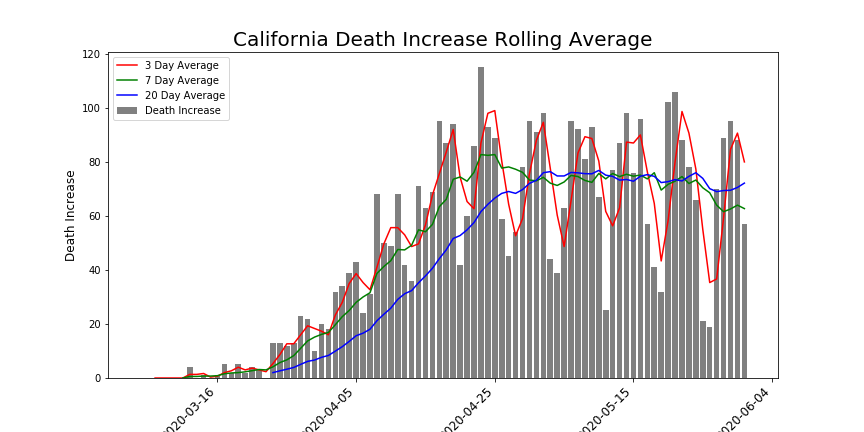
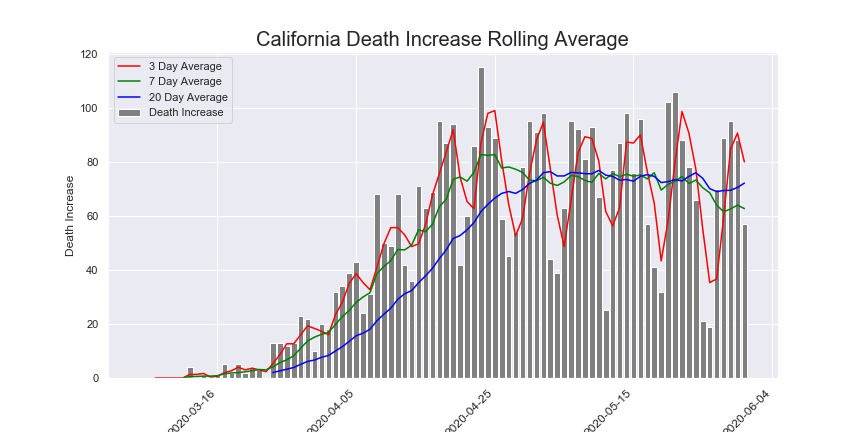
rolling avg instead of lowess

diff --git a/My_COVID_API.py b/My_COVID_API.py
@@ -53,7 +53,7 @@ plt.close('all')
 
 # In[3]:
                  ### Subset the data for specific states ### 
-
+sns.set()
 # First we look at Utah
 
 UT = df[df['state']=='UT']
